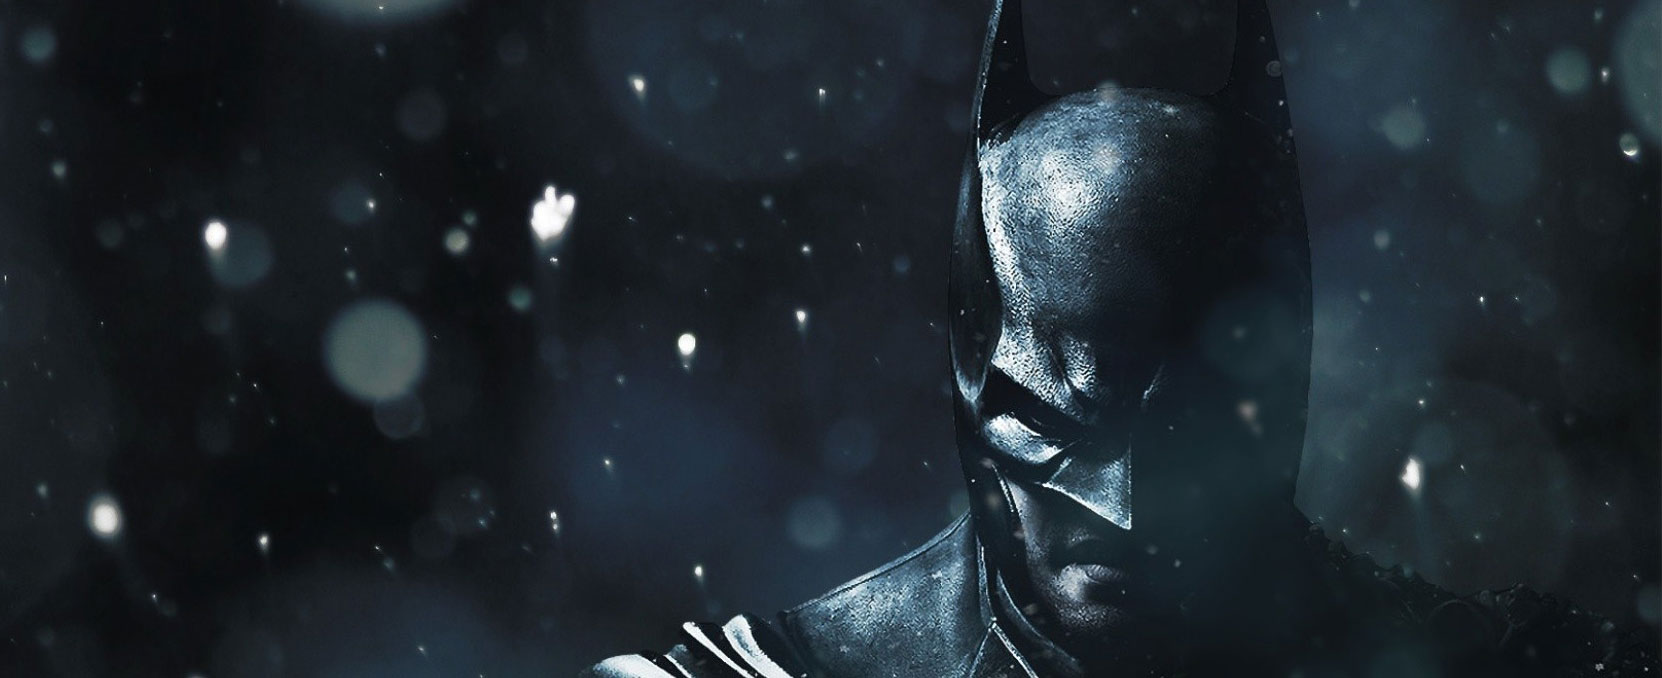
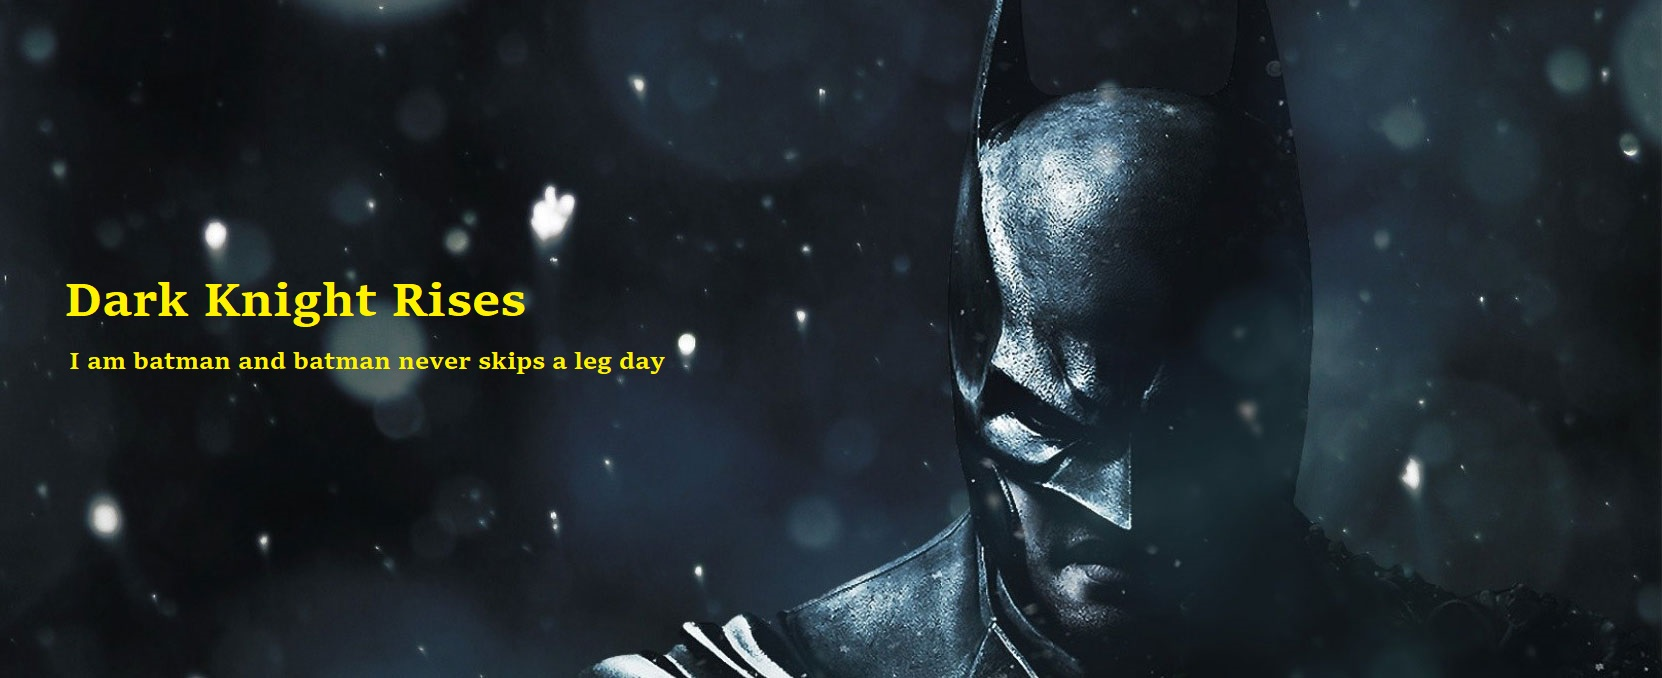
main page responsiveness

Changed region(s): [[0.0307, 0.4027, 0.3375, 0.4956], [0.0307, 0.5265, 0.3989, 0.5575]]

diff --git a/about.html b/about.html
@@ -42,22 +42,24 @@
                     </div>
                  </div>
             </nav>
-            <div class='whole'>
-	            <img src='img/hi.jpg' width='300px' height='300px'>
-	            <div class='ff'>
-	            <h2>About Batman</h2>
-	        </div>
-	        <div class='ss'>
-	   
-	            Batman operates in the fictional Gotham City with assistance from various supporting
-	            characters,including his buffer Alfred, police commisioner Gordon, and vigilante allies
-	            such as Robin. Unlike most superheroes, Batma does not possess any superpowrs,
-	            rather, he relies on his genius intellect, physical prowess, martial arts abilities, detective
-	            skills, science and technology, vast wealth, intimidation, and indomitable will. A large
-	            assortment of villians make up Batman's rogues gallery, including his archenemy, the 
-	            Joker
-	        </div>
-	    </div>
+            <div class="container" id="row">
+                        <div class="coloumn " >
+                            <img src='img/hi.jpg' width='300px' height='300px'>
+        
+                        </div>
+                        <div class="coloumn " style="width: 60%">
+                            <h2>About Batman</h2>
+                            <p>
+	                            Batman operates in the fictional Gotham City with assistance from various supporting
+	                            characters,including his buffer Alfred, police commisioner Gordon, and vigilante allies
+	                            such as Robin. Unlike most superheroes, Batma does not possess any superpowrs,
+	                            rather, he relies on his genius intellect, physical prowess, martial arts abilities, detective
+	                            skills, science and technology, vast wealth, intimidation, and indomitable will. A large
+	                            assortment of villians make up Batman's rogues gallery, including his archenemy, the 
+	                            Joker </p>
+                
+                        </div>
+                </div>   
             <!--footer-->    
             <footer align="center"><img src='img/logo.png' width='100px' height='50px'><br>Copyright Batman.corp</footer> 
 </body>

diff --git a/why.html b/why.html
@@ -44,7 +44,7 @@
             </nav>
             <!--body-->
             <div class="hi">
-	            <div class="imi"><img src="D:\assignment3\hi.jpg" width='200px' height='150px' ></div>
+	            <div class="imi"><img src="img/hi.jpg" width='200px' height='150px' ></div>
 	            <div class="ii">
 		            <h2>Because I am Batman</h2>
 			        <p>
@@ -60,7 +60,7 @@
 	        </div>
 	
 	        <div class="hf">
-	            <div class="imii"><img src="D:\assignment3\ezra.png" width='200px' height='150px'></div>
+	            <div class="imii"><img src="img/ezra.png" width='200px' height='150px'></div>
 	            <div class="if">
 		        <h2>Because Batman never skips leg day</h2>
 			    <p>
@@ -76,7 +76,7 @@
 	        </div>
 	
 	        <div class="hii">
-	            <div class="imis"><img src="D:\assignment3\lol.jpg" width='200px' height='150px' ></div>
+	            <div class="imis"><img src="img/lol.jpg" width='200px' height='150px' ></div>
 	            <div class="iii">
 		            <h2>The One Man War On Crime</h2>
 			        <p>
@@ -92,7 +92,7 @@
 	        </div>
 	
         	<div class="hff">
-	         <div class="imiis"><img src="D:\assignment3\hi.jpg" width='200px' height='150px'></div>
+	         <div class="imiis"><img src="img/hi.jpg" width='200px' height='150px'></div>
 	            <div class="iff">
 		        <h2>The Bat Cave</h2>
 			    <p>
@@ -104,8 +104,8 @@
 			  identity, but the Batcave is by far the most awesome. 			  
 			    </p>
 		    </div>
-
+			</div>
             <!--footer-->    
-            <footer align="center"><img src='img/logo.png' width='100px' height='50px'><br>Copyright Batman.corp</footer> 
+            <footer align="center" style="width: 100%;"><img src='img/logo.png' width='100px' height='50px'><br>Copyright Batman.corp</footer> 
 </body>
 </html>

diff --git a/css/index.css b/css/index.css
@@ -22,9 +22,10 @@ color:#000000;
  font-size: 15px;
  margin:20px auto;
  padding:10px 20px 20px 20px;
- width:800px;
+ width:80%;
  background-color:#eeeeee;
  color:#000000;
+ text-align: justify;
 
 }
 .divf{
@@ -32,37 +33,40 @@ color:#000000;
  border: 2px dotted red;
  margin:20px auto;
  padding:10px 20px 20px 20px;
- width:800px;
+ width:80%;
  background-color:#ffffff;
  color:#000000;
+ text-align: justify;
 }
 .divs{
  font-size: 15px;
  border: 2px solid red;
  margin:20px auto;
  padding:10px 20px 20px 20px;
- width:800px;
+ width:80%;
  background-color:#ffffff;
  color:#000000;
+ text-align: justify;
 }
 .aukha{
     position:absolute;
     color:#ffff00;
-    top:200px;
-    left:100px;
+    top:10vh;
+    left:10vw;
 
   }
 .auk{
     position:absolute;
     color:#ffff00;
-    top:300px;
-    left:100px; 
+    top:20vh;
+    left:10vw; 
 }
 
 /*footer*/
-footer{background-color:#000000;
+footer
+{   background-color:#000000;
     font-size: 15px;
     color:#ffffff;
     padding:10px 20px 20px 20px;
     margin-top:100px;
-   }
+}

diff --git a/index.html b/index.html
@@ -41,17 +41,9 @@
                         
                     </div>
                  </div>
+                 <img src='img/batmanbanner.jpg ' width=100% height=500%>  
             </nav>
             <!--content-->
-            <div>
-	    
-                    <img src='img\batmanbanner.jpg ' width=100% height=500px>
-                    <div class='aukha'>
-                       <h2>Dark Knight Rises</h2></div>
-                    <div class='auk'>	<h5>I am batman and batman never skips a leg day</h5></div>
-                    </div>
-                   
-                </div>
                 <div class='divn'>
                     <h2>Recent Arkham city news</h2>
                 </div>

diff --git a/css/why.css b/css/why.css
@@ -24,27 +24,27 @@ footer{background-color:#000000;
 /*why*/
 .hi{
     margin: 50px 500px;
-    width :800px;
+    width :60%;
     font-family:Arial,"Time New Roman";
     font-size: 15px;
     color:#000000;
 }
 .hf{   margin: 50px 350px;
-    width :800px;
+    width :60%;
     font-family:Arial,"Time New Roman";
     font-size: 15px;
     color:#000000;
 }
 .hii{
     margin: 50px 500px;
-    width :800px;
+    width :60%;
     font-family:Arial,"Time New Roman";
     font-size: 15px;
     color:#000000;
  }
 .hff{
     margin: 50px 350px;
-    width :800px;
+    width :60%;
     font-family:Arial,"Time New Roman";
     font-size: 15px;
     color:#000000;

diff --git a/css/about.css b/css/about.css
@@ -45,3 +45,29 @@ width:800px;
 top:300px;
 left:500px;
 }
+.coloumn
+{   margin:0px 30px 0px 0px;
+    padding:10px 10px 10px 10px;
+    float:left;
+    text-align: justify;
+}
+#row{
+    margin-top:30px;
+}
+
+#row:after {
+    content: "";
+    display: table;
+    clear: both;
+}
+@media screen and (max-width: 1000px) {
+    .coloumn {
+        width: 100%;
+        margin:10px ;
+      
+
+    }
+    #get{
+        margin-left:35px;
+    }
+}

diff --git a/css/services.css b/css/services.css
@@ -64,6 +64,7 @@ div{
     border-radius: 10px;
     padding:10px 10px 10px 10px;
     float:left;
+    text-align: justify;
 }
 #row{
     margin-top:30px;

diff --git a/css/merchandise.css b/css/merchandise.css
@@ -26,6 +26,7 @@
     border-radius: 10px;
     padding:10px 10px 10px 10px;
     float:left;
+    text-align: justify;
 }
 #row{
     margin-top:30px;
